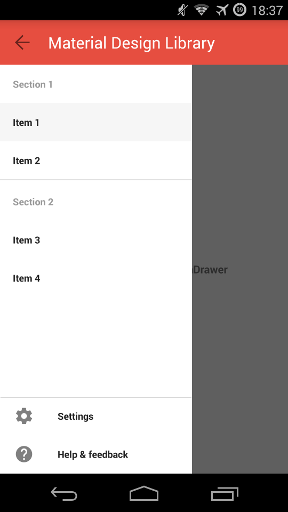
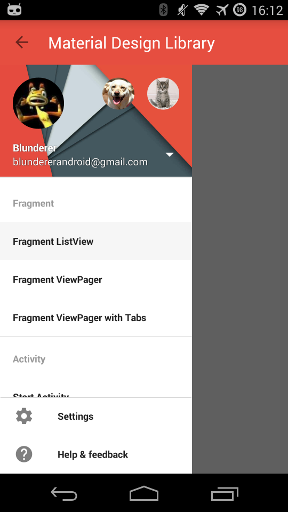
v1.1.4

diff --git a/README.md b/README.md
@@ -9,7 +9,7 @@ It offers a lot of Material Design classes easily to use like a CardView or a Na
 ### Demo
 [![Material Design Library on Google Play Store](http://developer.android.com/images/brand/en_generic_rgb_wo_60.png)](https://play.google.com/store/apps/details?id=com.blunderer.materialdesignlibrary.sample)
 
-![NavigationDrawer](images/screen06.png) ![CardView with Image on the Top](images/screen07.png)
+![NavigationDrawer with Accounts](images/screen06.png) ![CardView with Image on the Top](images/screen07.png)
 ![ListView with Pull To Refresh](images/screen02.png) ![ViewPager with Tabs](images/screen08.png)
 
 ### Wiki
@@ -21,7 +21,7 @@ View wiki here: [Material Design Library Wiki](https://github.com/DenisMondon/ma
 
 ```groovy
 dependencies {
-    compile 'com.blunderer:materialdesignlibrary:1.1.3'
+    compile 'com.blunderer:materialdesignlibrary:1.1.4'
 }
 ```
 
@@ -53,7 +53,7 @@ Or if you want the Light Theme:
   Your Activity will contain a ListView (with or not the Material Design Pull To Refresh).
 
   * **NavigationDrawerActivity**  
-  Your Activity will contain a NavigationDrawer.
+  Your Activity will contain a NavigationDrawer (with or not Accounts).
 
   * **ViewPagerActivity**  
   Your Activity will contain a ViewPager (with or not the indicator).
@@ -66,6 +66,27 @@ Or if you want the Light Theme:
 import com.blunderer.materialdesignlibrary.activities.NavigationDrawerActivity;
 
 public class MyActivity extends NavigationDrawerActivity {
+
+    @Override
+    protected NavigationDrawerAccountsHandler getNavigationDrawerAccountsHandler() {
+        return new NavigationDrawerAccountsHandler()
+                .addAccount("Profile 1", "profile1@gmail.com",
+                        R.drawable.profile1, R.drawable.profile1_background)
+                .addAccount("Profile 2", "profile2@gmail.com",
+                        R.drawable.profile2, R.drawable.profile2_background);
+    }
+
+    @Override
+    protected NavigationDrawerAccountsMenuHandler getNavigationDrawerAccountsMenuHandler() {
+        return new NavigationDrawerAccountsMenuHandler(this)
+                .addAddAccount(new Intent(getApplicationContext(), AddAccountActivity.class))
+                .addManageAccounts(new Intent(getApplicationContext(), ManageAccountsActivity.class));
+    }
+
+    @Override
+    protected void onNavigationDrawerAccountChange(Account account) {
+        Toast.makeText(getApplicationContext(), "Account changed!", Toast.LENGTH_SHORT).show();
+    }
 
     @Override
     protected NavigationDrawerTopHandler getNavigationDrawerTopHandler() {
@@ -98,6 +119,11 @@ public class MyActivity extends NavigationDrawerActivity {
                     }
 
                 });
+    }
+
+    @Override
+    protected boolean replaceActionBarTitleByNavigationDrawerItemTitle() {
+        return true;
     }
 
     @Override
